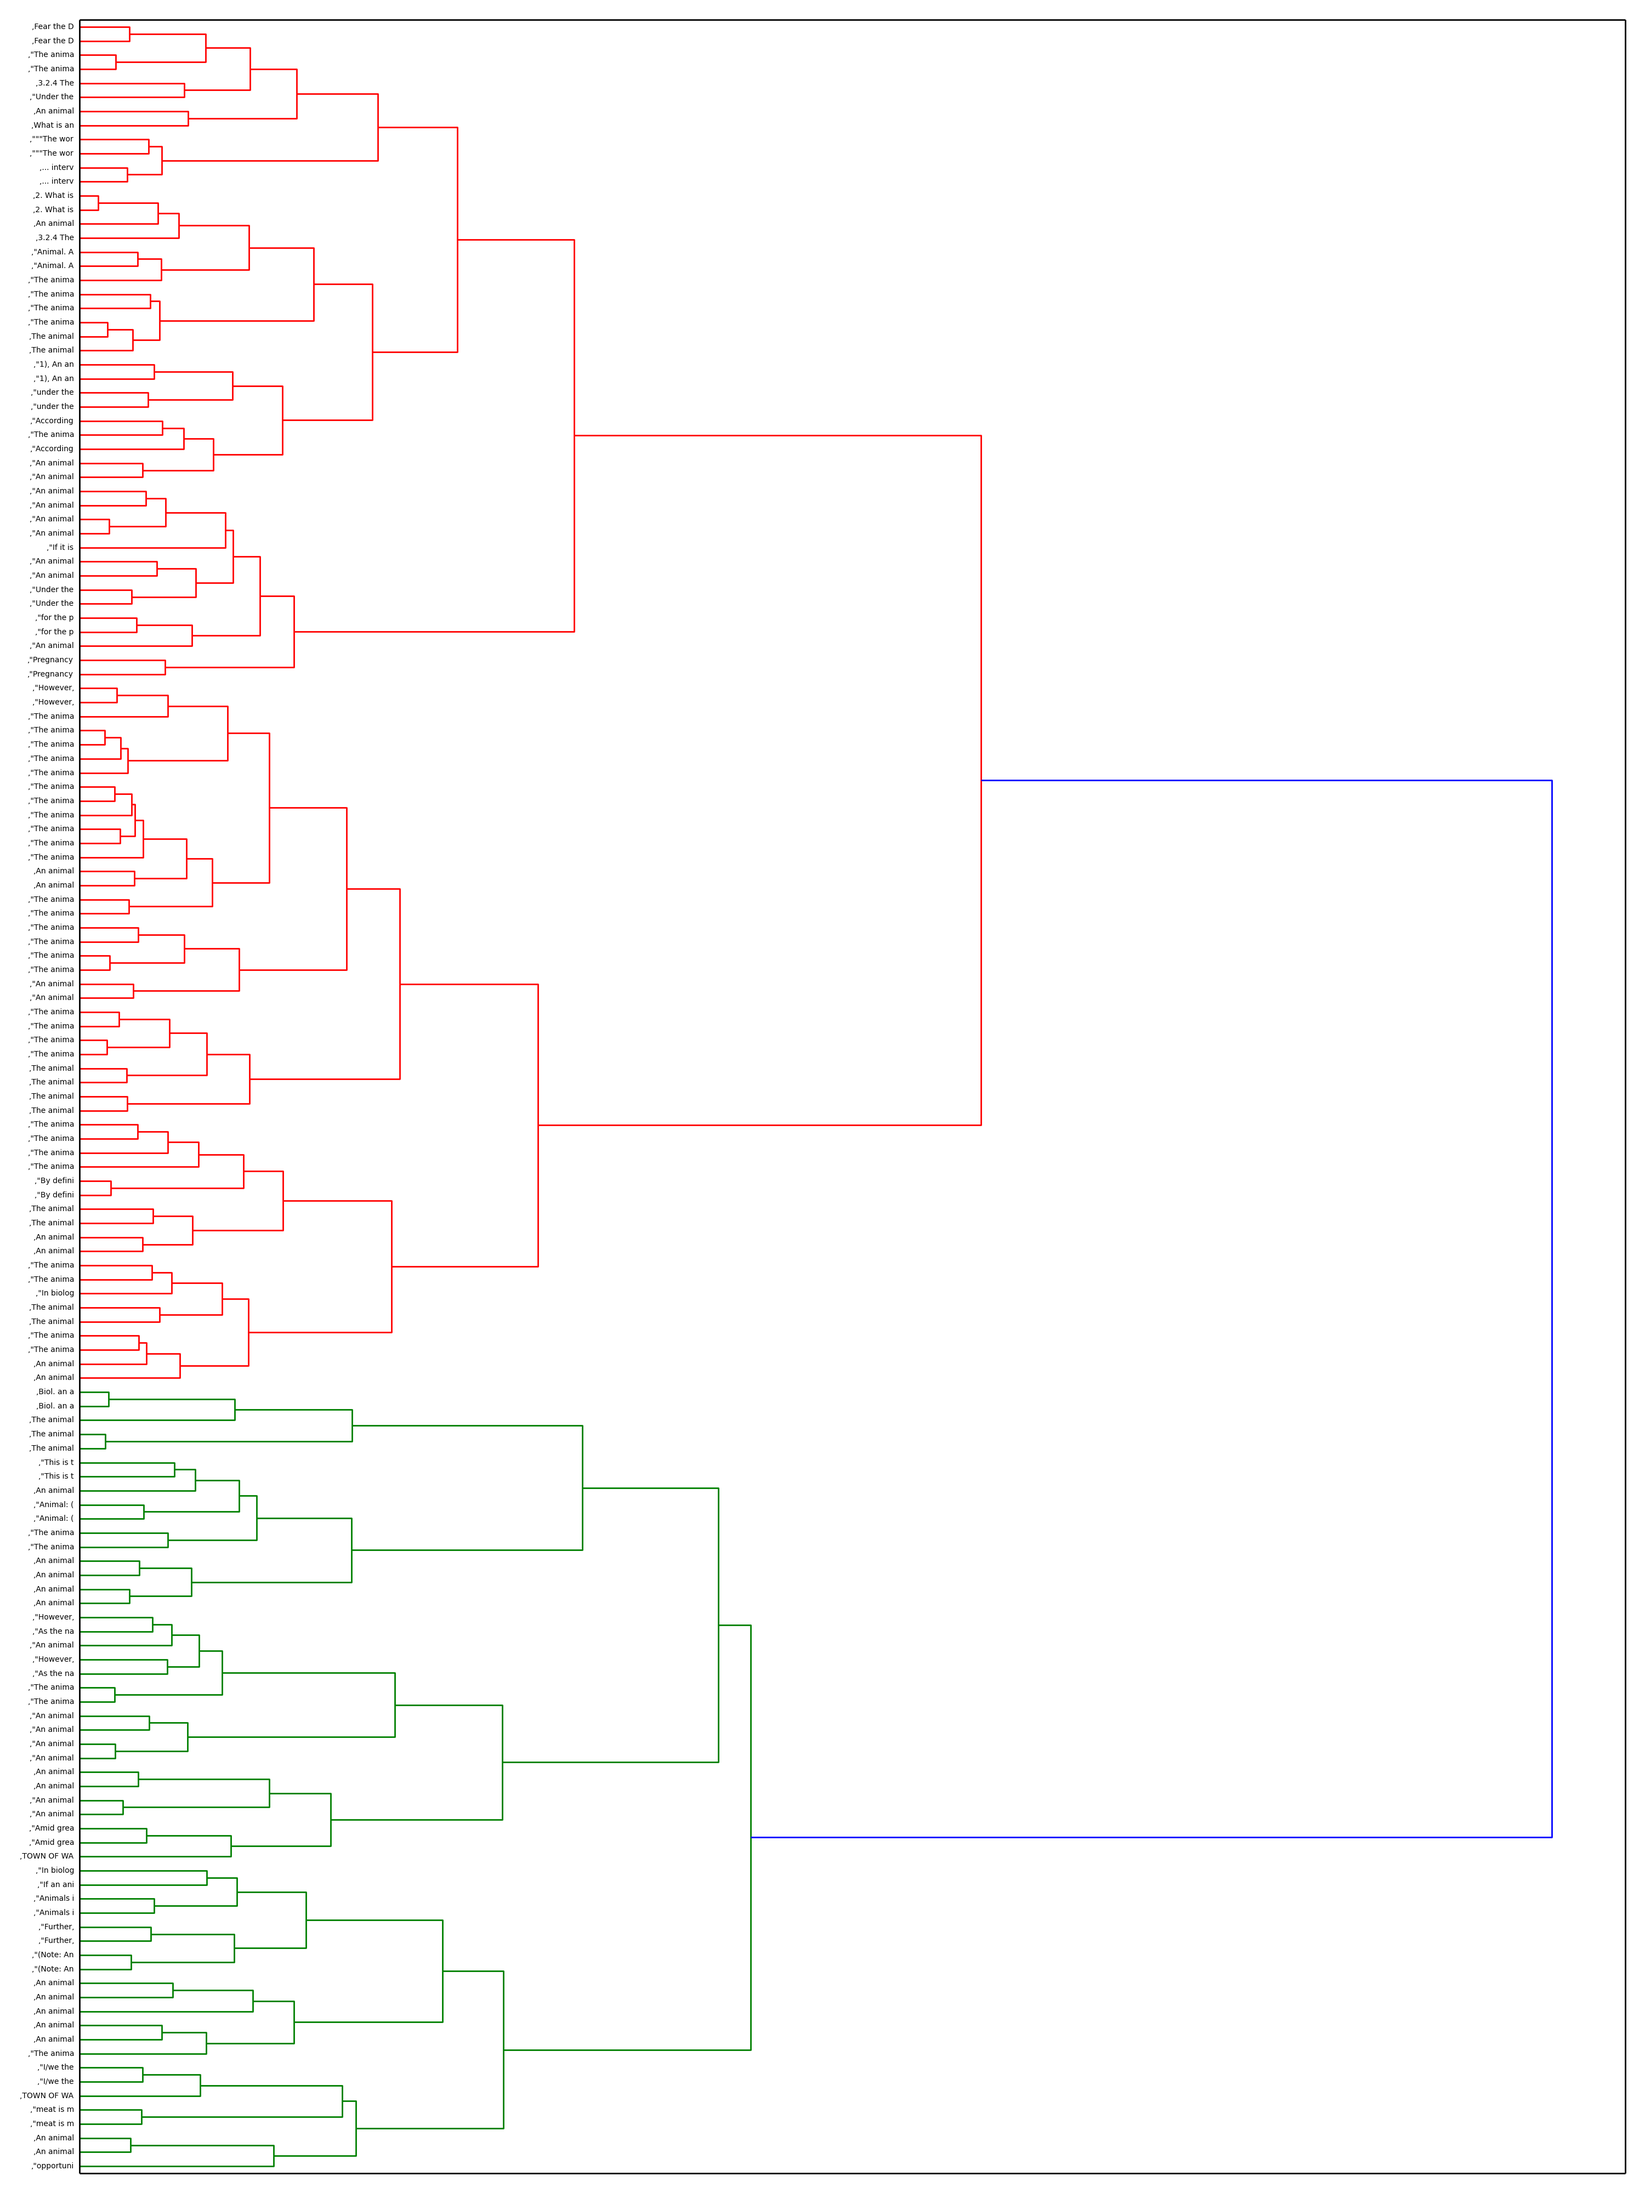
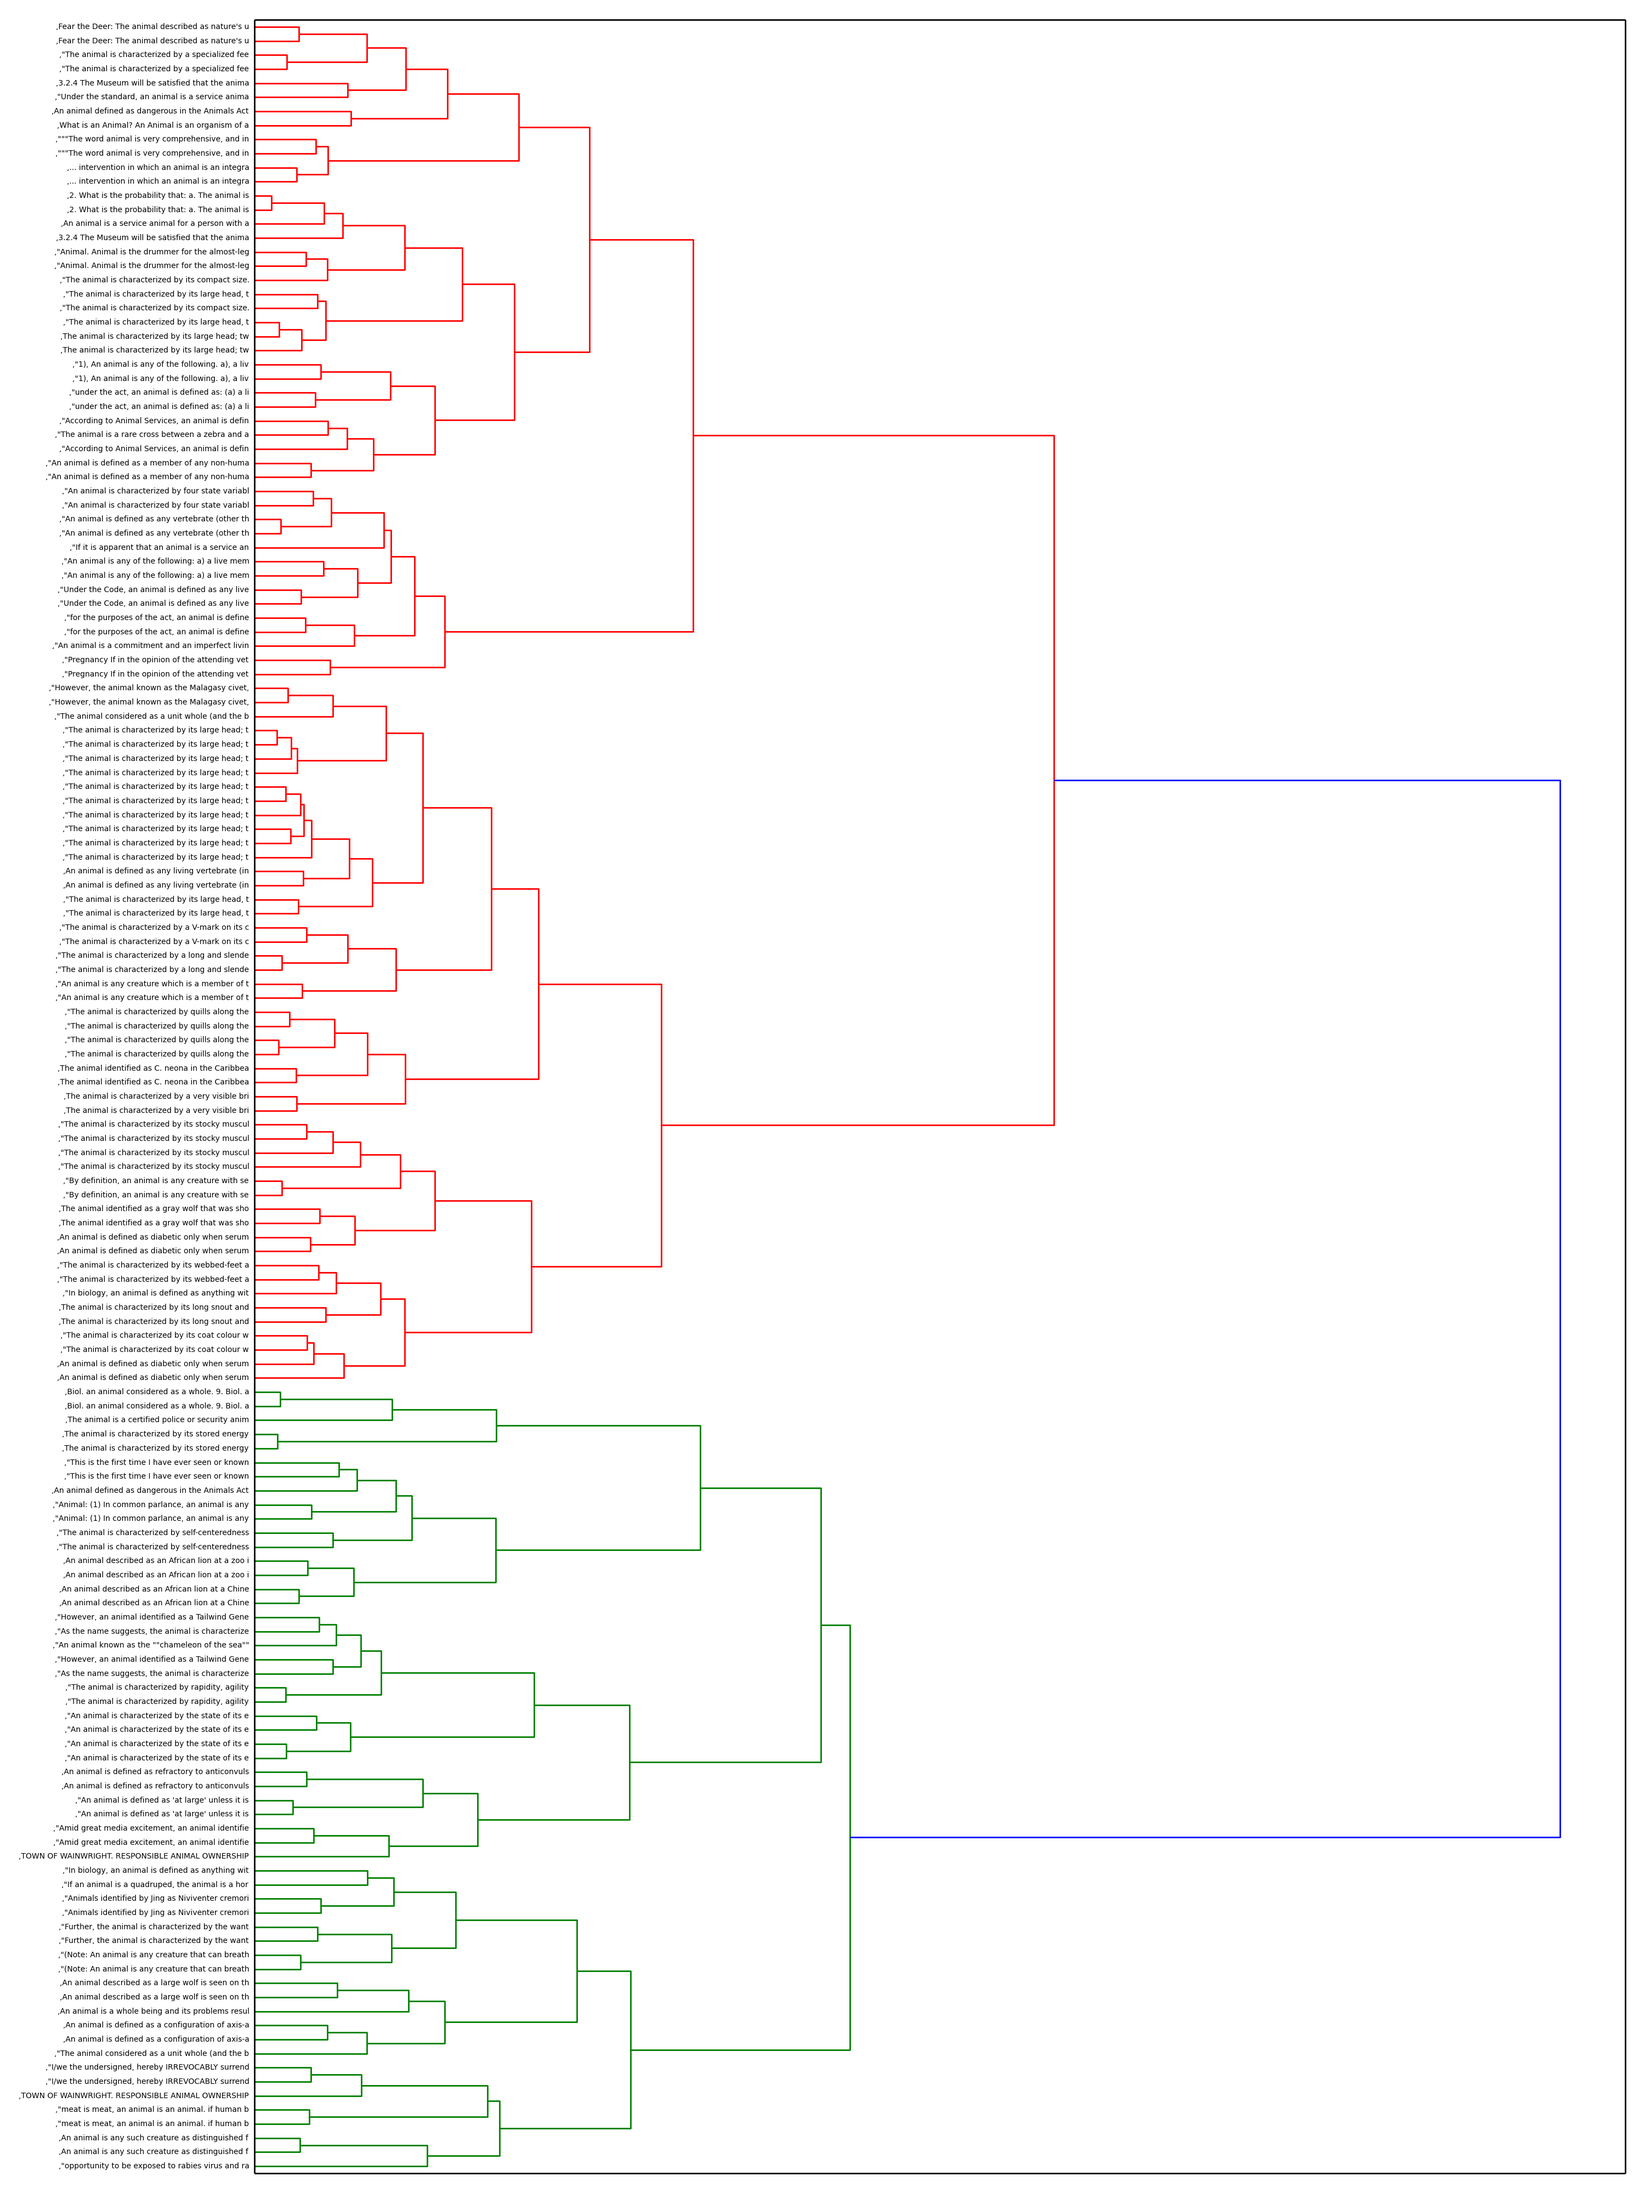
Sentece clustering

Changed region(s): [[0.031, 0.0, 0.279, 1.0], [0.217, 0.4688, 0.248, 0.5]]

diff --git a/sent_clustering.py b/sent_clustering.py
@@ -20,7 +20,7 @@ args = parser.parse_args()
 
 route = "/almac/ignacio/data/describe_corpus/txt/"
 #num_clusters = 5
-min_show_length = 11
+min_show_length = 50
 
 def cleaner(line): # The default is the average sentence length in English
     return line.strip()[:min_show_length]
@@ -89,6 +89,6 @@ plt.tick_params(\
 
 plt.tight_layout() #show plot with tight layout
 #uncomment below to save figure
-#plt.savefig("ward_clusters_%s_%s_H%s.png" % (term_name, corpus, dimension), dpi=200) #save figure as ward_clusters
-fig.savefig("ward_clusters_%s_%s_H%s.png" % (term_name, corpus, dimensions), dpi=200) #save figure as ward_clusters
+plt.savefig("ward_clusters_%s_%s_H%s.png" % (term_name, corpus, dimensions), dpi=200) #save figure as ward_clusters
+#fig.savefig("ward_clusters_%s_%s_H%s.png" % (term_name, corpus, dimensions), dpi=200) #save figure as ward_clusters
 #plt.close()
